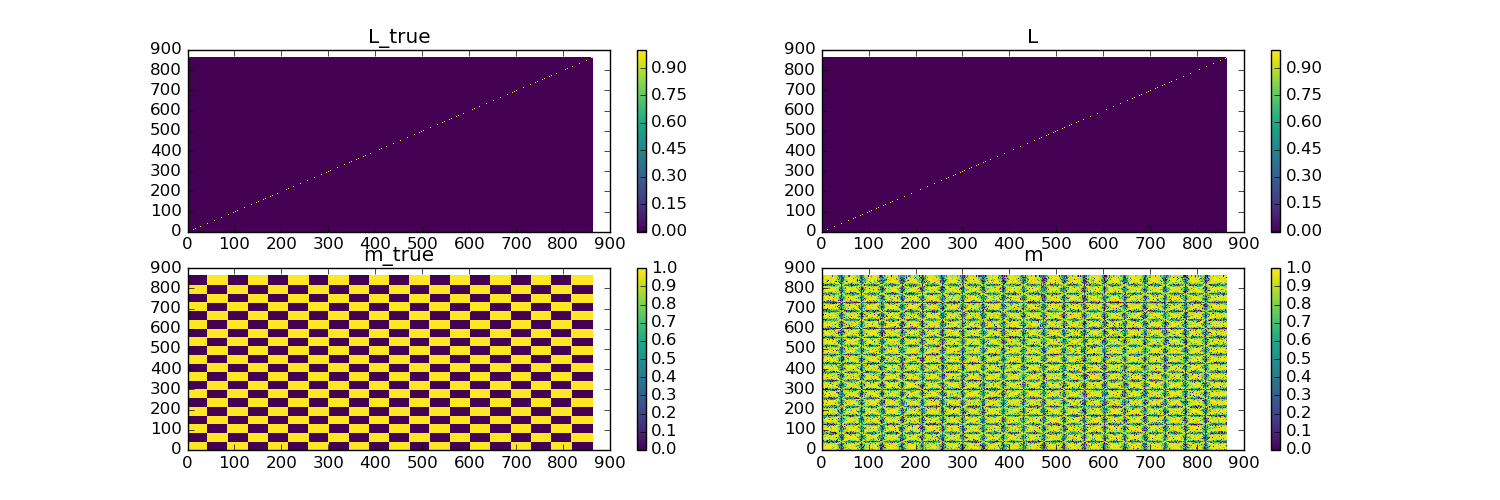
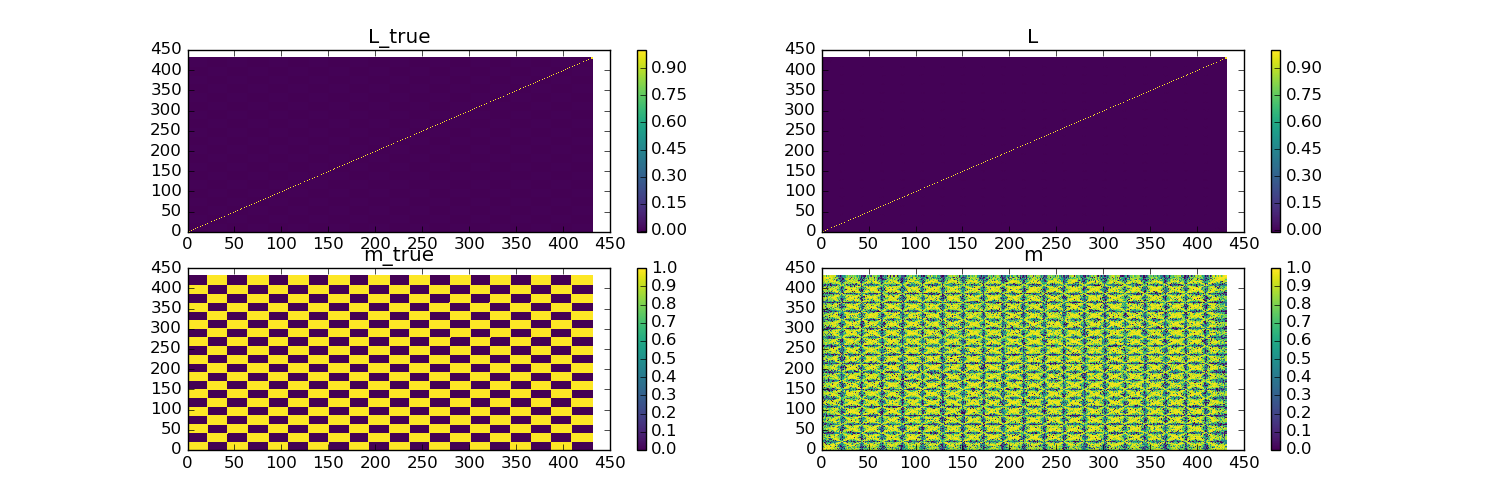
fix bug for dw

diff --git a/model/sigmasTest.py b/model/sigmasTest.py
@@ -1,5 +1,57 @@
 import numpy as np
-import sys, scipy, os
+import sys, scipy
 
-sigmas = np.load('./sigmas/sigmas_0.npy')
-print sigmas
+import matplotlib.pyplot as plt
+plt.switch_backend('agg')
+from sklearn.feature_extraction import image
+import librosa
+
+sys.path.append('../src')
+import laplacian
+import RecurrenceMatrix as RM
+import gradient
+
+sigmas0 = np.load('./sigmas/sigmas_0.npy')
+sigmas1 = np.load('./sigmas/sigmas_1.npy')
+
+mu, sigma, length = 10, 1, 22050/2 # mean, standard deviation, and sampling rate
+signal = []
+for i in xrange(20):
+  if i%2==0:
+    signal += list(np.random.normal(mu, sigma, length))
+  else:
+    signal += list(np.random.normal(-mu, sigma, length))
+signal = np.array(signal)
+cqt = np.transpose(librosa.cqt(signal))
+
+gm0 = RM.feature2GaussianMatrix(cqt, sigmas0)
+
+term = ['up', 'down']
+term2 = ['transitDown', 'transitUp']
+transitDelta = 50
+allInterval = []
+#Create interval base on the signal we created
+for i in xrange(20):
+  allInterval += [[np.array([length*i+transitDelta, length*(i+1)-transitDelta]).astype(float), term[i%2]]]
+  allInterval += [[np.array([length*(i+1)-transitDelta, length*(i+1)+transitDelta]).astype(float), term2[i%2]]]
+allInterval.pop()
+#Convert interval from time to frame
+def t2f(x):
+    return librosa.core.time_to_frames(x, sr=22050, hop_length=512, n_fft=None)
+allInterval = [[np.apply_along_axis(t2f, 0, elm[0]/22050), elm[1]] for elm in allInterval]
+m_true = RM.label2RecurrenceMatrix("../data/2.jams", gm0.shape[0], allInterval)
+
+
+gm0 = RM.feature2GaussianMatrix(cqt, sigmas0)
+gm1 = RM.feature2GaussianMatrix(cqt, sigmas1)
+L0 = scipy.sparse.csgraph.laplacian(gm0, normed=True)
+L1 = scipy.sparse.csgraph.laplacian(gm1, normed=True)
+L_true = scipy.sparse.csgraph.laplacian(m_true, normed=True)
+
+err0 = 0.5 * np.linalg.norm(L_true-L0)**2
+err1 = 0.5 * np.linalg.norm(L_true-L1)**2
+
+print "err0: ", str(err0)
+print "err1: ", str(err1)
+
+

diff --git a/model/model.py b/model/model.py
@@ -66,62 +66,45 @@ print "L diag all 1: ", all([L[i,i] == 1 for i in xrange(L.shape[0])])
 print "L_true diag all 1: ", all([L_true[i,i] == 1 for i in xrange(L_true.shape[0])])
 
 err = 0.5 * np.linalg.norm(L_true-L)**2
-epco, alpha, res = 5, 0.1, []
+epco, alpha, res = 5, 10, []
 print "hi"
 res += [err]
 
-filename = "./fig/L_orignalAll.png"
+filename = "./fig/L_orignalAll_alpha10.png"
 plt.figure(figsize=(15, 5))
-plt.subplot(2, 2, 1)
-plt.pcolor(L_true, cmap="viridis")
-plt.colorbar()
-plt.title('L_true')
 
-plt.subplot(2, 2, 2)
-plt.pcolor(L, cmap="viridis")
-plt.colorbar()
-plt.title('L')
-
-plt.subplot(2, 2, 3)
+plt.subplot(1, 2, 1)
 plt.pcolor(m_true, cmap="viridis")
 plt.colorbar()
 plt.title('m_true')
 
-plt.subplot(2, 2, 4)
+plt.subplot(1, 2, 2)
 plt.pcolor(gm, cmap="viridis")
 plt.colorbar()
 plt.title('m')
 plt.savefig(filename)
 
 for i in xrange(epco):
-  accu = gradient.allDLoss(sigmas, L, L_true, cqt)
+  accu = gradient.allDLoss(sigmas, L, L_true, gm, cqt)
   sigmas = sigmas - alpha * accu
-
-  filename = "./sigmas/sigmas_" + str(i) + ".npy"
+  print "sigmas"
+  print sigmas
+  filename = "./sigmas/sigmas_alpha10_" + str(i) + ".npy"
   print "saving sigmas to: ", filename
   np.save(filename, sigmas)
 
   gm = RM.feature2GaussianMatrix(cqt, sigmas)
   L = scipy.sparse.csgraph.laplacian(gm, normed=True)
 
-  filename = "./fig/allL_" + str(i) + ".png"
+  filename = "./fig/allL_alpha10_" + str(i) + ".png"
   plt.figure(figsize=(15, 5))
-  plt.subplot(2, 2, 1)
-  plt.pcolor(L_true, cmap="viridis")
-  plt.colorbar()
-  plt.title('L_true')
 
-  plt.subplot(2, 2, 2)
-  plt.pcolor(L, cmap="viridis")
-  plt.colorbar()
-  plt.title('L')
-
-  plt.subplot(2, 2, 3)
+  plt.subplot(1, 2, 1)
   plt.pcolor(m_true, cmap="viridis")
   plt.colorbar()
   plt.title('m_true')
 
-  plt.subplot(2, 2, 4)
+  plt.subplot(1, 2, 2)
   plt.pcolor(gm, cmap="viridis")
   plt.colorbar()
   plt.title('m')
